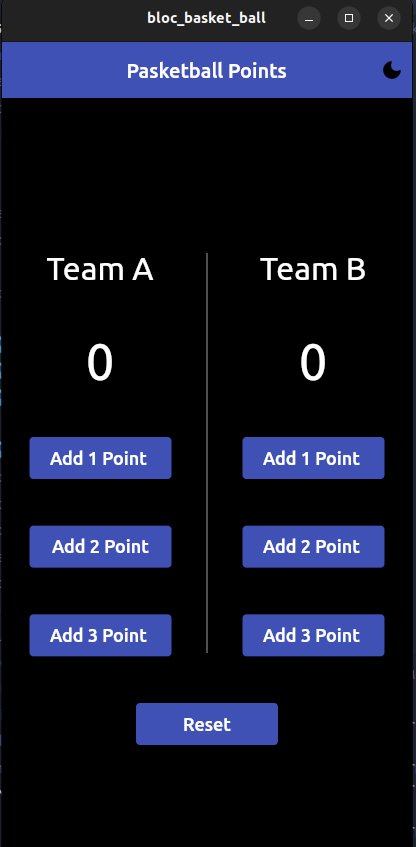
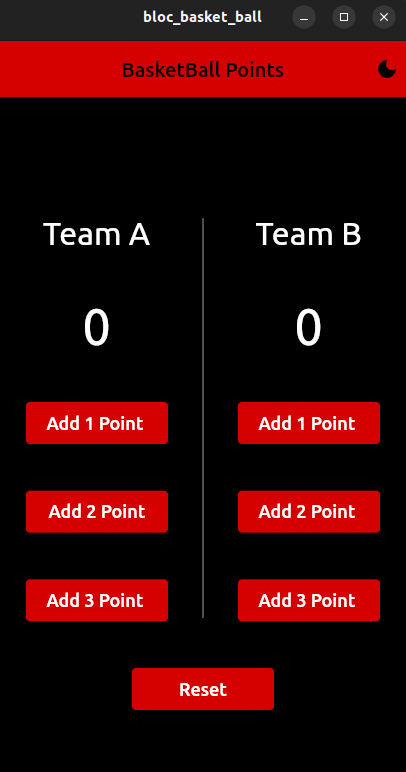
flutter basketball with bloc

diff --git a/bloc_basket_ball/lib/f_basketball/presentation/screens/basketball.dart b/bloc_basket_ball/lib/f_basketball/presentation/screens/basketball.dart
@@ -1,3 +1,4 @@
+import 'package:bloc_basket_ball/core/utils/app_strings.dart';
 import 'package:bloc_basket_ball/f_basketball/presentation/bloc/basketball_bloc.dart';
 import 'package:bloc_basket_ball/f_basketball/presentation/bloc/basketball_events.dart';
 import 'package:flutter_bloc/flutter_bloc.dart';
@@ -12,10 +13,10 @@ class BasketballPointScreen extends StatelessWidget {
     return Scaffold(
       // ====================== app bar ================= //
       appBar: AppBar(
-        backgroundColor: Colors.indigo,
+    
         title: const Text(
-          'Pasketball Points',
-          style: TextStyle(color: Color(0xffffffff)),
+         AppStrings.appName,
+     
         ),
         actions: [
           IconButton(
@@ -62,11 +63,7 @@ class BasketballPointScreen extends StatelessWidget {
                             ),
                           ),
                           ElevatedButton(
-                            style: ElevatedButton.styleFrom(
-                              backgroundColor: Colors.indigo,
-                              foregroundColor: Colors.white,
-                              minimumSize: const Size(150, 50),
-                            ),
+                           
                             onPressed: () {
                               BlocProvider.of<BasketBallBloc>(context)
                                   .add(BasketBallTeamAIncrementEvent(point: 1));
@@ -74,15 +71,11 @@ class BasketballPointScreen extends StatelessWidget {
                             child: const Text(
                               'Add 1 Point ',
                               style: TextStyle(
-                                  fontSize: 18, color: Color(0xffffffff)),
+                                  fontSize: 18, ),
                             ),
                           ),
                           ElevatedButton(
-                            style: ElevatedButton.styleFrom(
-                              backgroundColor: Colors.indigo,
-                              foregroundColor: Colors.white,
-                              minimumSize: const Size(150, 50),
-                            ),
+                         
                             onPressed: () {
                               BlocProvider.of<BasketBallBloc>(context)
                                   .add(BasketBallTeamAIncrementEvent(point: 2));
@@ -91,16 +84,12 @@ class BasketballPointScreen extends StatelessWidget {
                               'Add 2 Point',
                               style: TextStyle(
                                 fontSize: 18,
-                                color: Color(0xffffffff),
+                        
                               ),
                             ),
                           ),
                           ElevatedButton(
-                            style: ElevatedButton.styleFrom(
-                              backgroundColor: Colors.indigo,
-                              foregroundColor: Colors.white,
-                              minimumSize: const Size(150, 50),
-                            ),
+                         
                             onPressed: () {
                               BlocProvider.of<BasketBallBloc>(context)
                                   .add(BasketBallTeamAIncrementEvent(point: 3));
@@ -109,7 +98,7 @@ class BasketballPointScreen extends StatelessWidget {
                               'Add 3 Point ',
                               style: TextStyle(
                                 fontSize: 18,
-                                color: Color(0xffffffff),
+                   
                               ),
                             ),
                           ),
@@ -145,11 +134,7 @@ class BasketballPointScreen extends StatelessWidget {
                             ),
                           ),
                           ElevatedButton(
-                            style: ElevatedButton.styleFrom(
-                              backgroundColor: Colors.indigo,
-                              foregroundColor: Colors.white,
-                              minimumSize: const Size(150, 50),
-                            ),
+                        
                             onPressed: () {
                               BlocProvider.of<BasketBallBloc>(context)
                                   .add(BasketBallTeamBIncrementEvent(point: 1));
@@ -158,16 +143,12 @@ class BasketballPointScreen extends StatelessWidget {
                               'Add 1 Point ',
                               style: TextStyle(
                                 fontSize: 18,
-                                color: Color(0xffffffff),
+                   
                               ),
                             ),
                           ),
                           ElevatedButton(
-                            style: ElevatedButton.styleFrom(
-                              backgroundColor: Colors.indigo,
-                              foregroundColor: Colors.white,
-                              minimumSize: const Size(150, 50),
-                            ),
+                        
                             onPressed: () {
                               BlocProvider.of<BasketBallBloc>(context)
                                   .add(BasketBallTeamBIncrementEvent(point: 2));
@@ -176,16 +157,12 @@ class BasketballPointScreen extends StatelessWidget {
                               'Add 2 Point ',
                               style: TextStyle(
                                 fontSize: 18,
-                                color: Color(0xffffffff),
+                           
                               ),
                             ),
                           ),
                           ElevatedButton(
-                            style: ElevatedButton.styleFrom(
-                              backgroundColor: Colors.indigo,
-                              foregroundColor: Colors.white,
-                              minimumSize: const Size(150, 50),
-                            ),
+                      
                             onPressed: () {
                               BlocProvider.of<BasketBallBloc>(context)
                                   .add(BasketBallTeamBIncrementEvent(point: 3));
@@ -194,7 +171,7 @@ class BasketballPointScreen extends StatelessWidget {
                               'Add 3 Point ',
                               style: TextStyle(
                                 fontSize: 18,
-                                color: Color(0xffffffff),
+                     
                               ),
                             ),
                           ),
@@ -205,11 +182,7 @@ class BasketballPointScreen extends StatelessWidget {
                 ],
               ),
               ElevatedButton(
-                style: ElevatedButton.styleFrom(
-                  backgroundColor: Colors.indigo,
-                  foregroundColor: Colors.white,
-                  minimumSize: const Size(150, 50),
-                ),
+           
                 onPressed: () {
                   BlocProvider.of<BasketBallBloc>(context)
                       .add(BasketBallRestEvent());
@@ -218,7 +191,7 @@ class BasketballPointScreen extends StatelessWidget {
                   'Reset',
                   style: TextStyle(
                     fontSize: 18,
-                    color: Color(0xffffffff),
+                
                   ),
                 ),
               ),

diff --git a/bloc_basket_ball/lib/config/theme.dart b/bloc_basket_ball/lib/config/theme.dart
@@ -2,12 +2,23 @@ import 'package:flutter/material.dart';
 
 class Styles {
   static ThemeData themeData(bool isDarkTheme, BuildContext context) {
-     
     return ThemeData(
-      primarySwatch: Colors.indigo,
+      primarySwatch: Colors.red,
       canvasColor: isDarkTheme ? Colors.black : Colors.grey[50],
       brightness: isDarkTheme ? Brightness.dark : Brightness.light,
-      appBarTheme: const AppBarTheme(elevation: 0.0, centerTitle: true),
+      appBarTheme: AppBarTheme(
+        elevation: 0.0,
+        centerTitle: true,
+        backgroundColor: Colors.redAccent.shade700,
+          foregroundColor:  isDarkTheme ? Colors.black : Colors.grey[50],
+      ),
+      elevatedButtonTheme: ElevatedButtonThemeData(
+        style: ElevatedButton.styleFrom(
+          backgroundColor: Colors.redAccent.shade700,
+          foregroundColor: Colors.white,
+          minimumSize: const Size(150, 50),
+        ),
+      ),
     );
   }
 }
